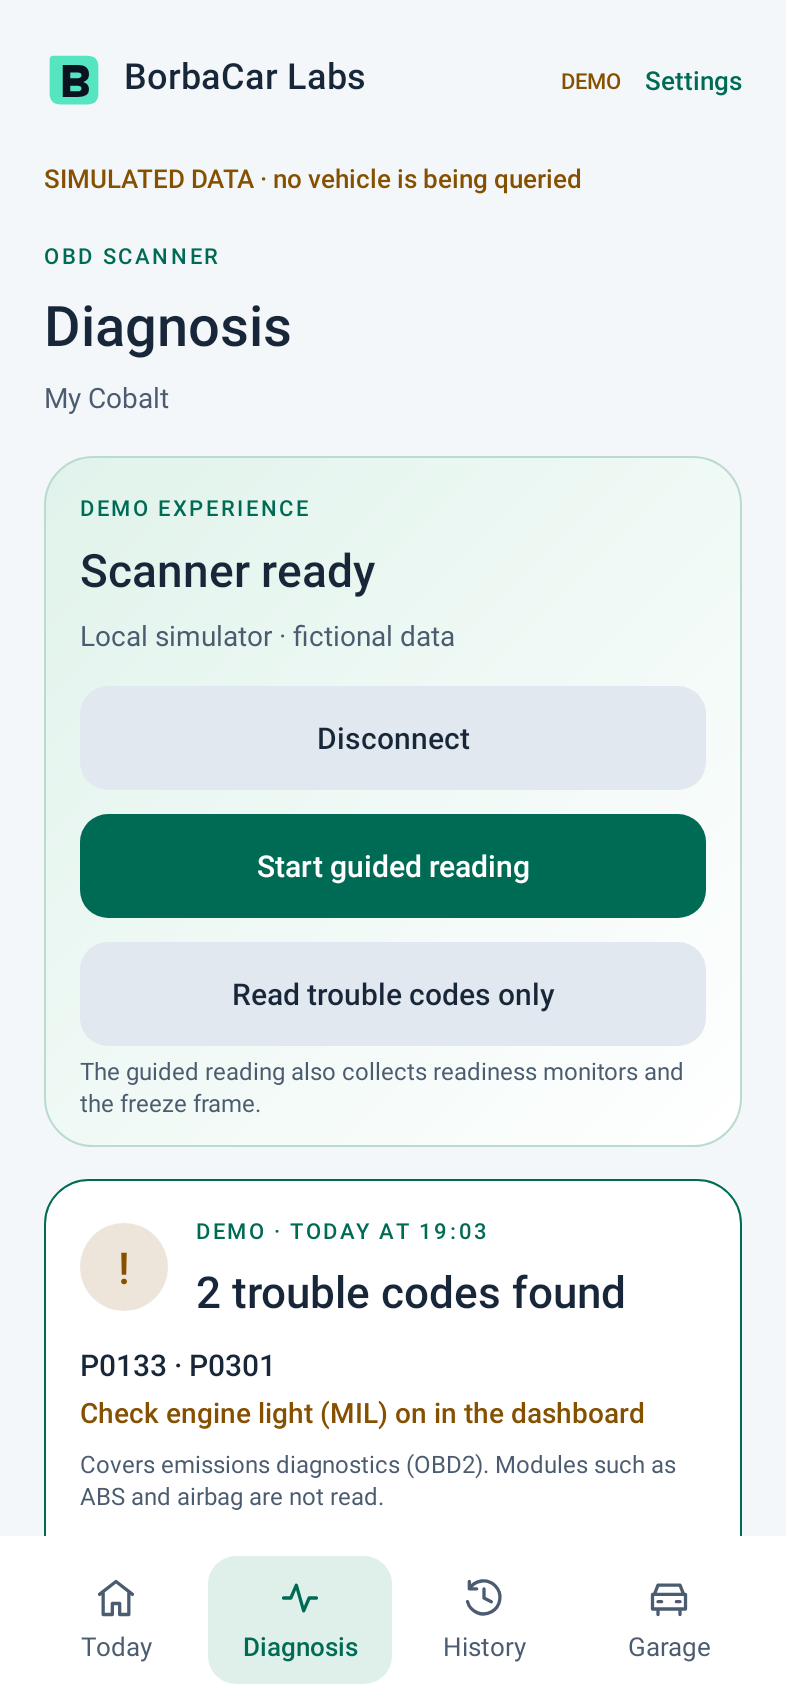
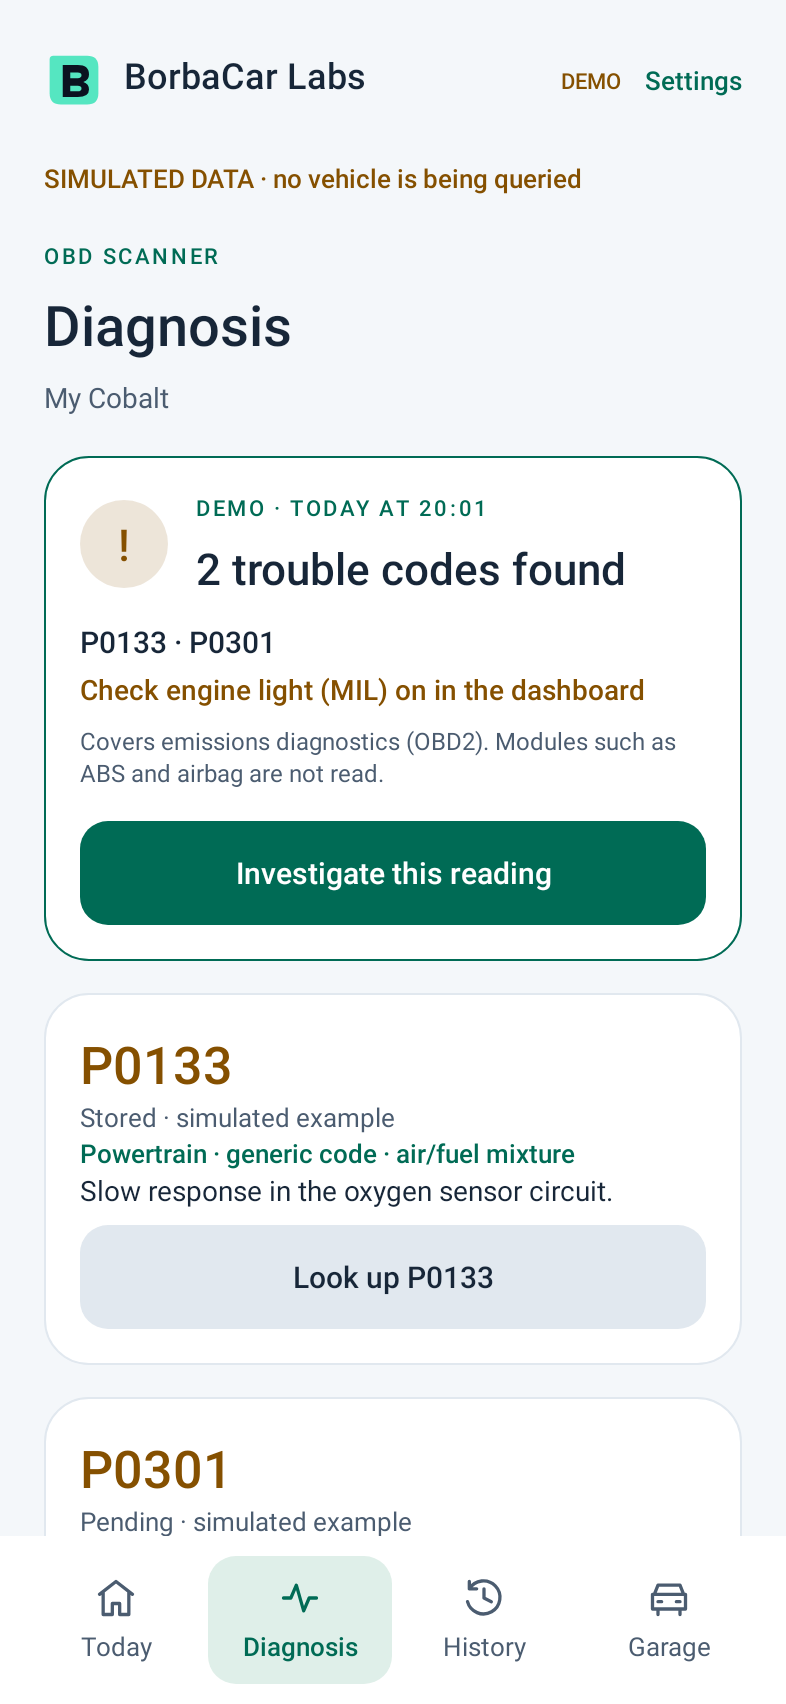
test(ui): check the diagnosis result comes before the connection controls

diff --git a/app/src/test/java/io/rea/obd/ScreensTest.java b/app/src/test/java/io/rea/obd/ScreensTest.java
@@ -76,6 +76,37 @@ public class ScreensTest {
     }
 
     @Test
+    public void diagnosisShowsTheResultBeforeTheConnectionControls() throws Exception {
+        ActivityController<MainActivity> controller = Robolectric.buildActivity(MainActivity.class).setup();
+        MainActivity activity = controller.get();
+        activity.startDemo();
+        activity.navigate(NavigationState.DIAGNOSIS);
+        idle();
+        String before = texts(activity.getWindow().getDecorView());
+        assertTrue(before.indexOf("Iniciar leitura guiada") >= 0);
+        assertFalse(before.contains("Conexão e nova leitura"));
+
+        activity.scan();
+        waitForWorkers();
+        View root = activity.getWindow().getDecorView();
+        String after = texts(root);
+        int verdict = after.indexOf("códigos de falha encontrados");
+        int connection = after.indexOf("Conexão e nova leitura");
+        assertTrue(verdict >= 0);
+        assertTrue(connection > verdict);
+        assertTrue(after.indexOf("Iniciar leitura guiada") > connection);
+        View controls = root.findViewWithTag("disclosure-Conexão e nova leitura");
+        assertNotNull(controls);
+        android.view.ViewGroup parent = (android.view.ViewGroup) controls.getParent();
+        View content = parent.getChildAt(parent.indexOfChild(controls) + 1);
+        assertTrue(content.getVisibility() == View.GONE);
+        controls.performClick();
+        assertTrue(content.getVisibility() == View.VISIBLE);
+        capture(activity, "14-diagnostico-resultado-primeiro");
+        controller.pause().stop().destroy();
+    }
+
+    @Test
     public void deniedBluetoothPermissionExplainsInsteadOfListingDevices() {
         ActivityController<MainActivity> controller = Robolectric.buildActivity(MainActivity.class).setup();
         MainActivity activity = controller.get();
